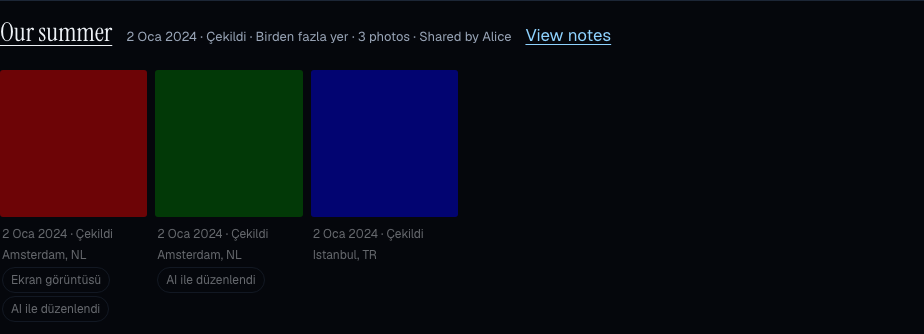
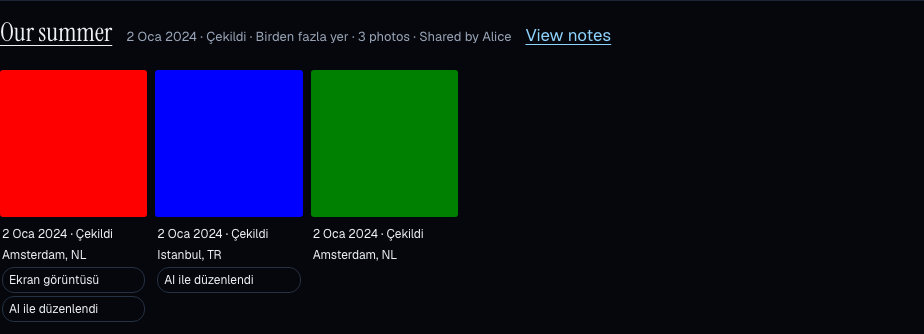
test(labels): capture settled badges and record pending budget gate

diff --git a/tests/clarity-workspaces.spec.ts b/tests/clarity-workspaces.spec.ts
@@ -434,6 +434,7 @@ test("photo label editing and atomic Gallery selection show honest badges at pho
       .getByLabel("AI kullanımı", { exact: true })
       .selectOption("edited");
     await editor.screenshot({
+      animations: "disabled",
       path: `${directory}/${info.project.name}-bulk-editor.png`,
     });
     expect(
@@ -449,6 +450,7 @@ test("photo label editing and atomic Gallery selection show honest badges at pho
     ).toHaveCount(2);
     expect((await read()).items[2]).toEqual(before.items[2]);
     await page.locator("#grid").screenshot({
+      animations: "disabled",
       path: `${directory}/${info.project.name}-gallery-badges.png`,
     });
     const requests: string[] = [];
@@ -466,6 +468,7 @@ test("photo label editing and atomic Gallery selection show honest badges at pho
       ),
     ).toEqual([]);
     await page.locator("#results").screenshot({
+      animations: "disabled",
       path: `${directory}/${info.project.name}-search-badges.png`,
     });
   } finally {

diff --git a/work/poteto/photo-labels-ui/VERIFICATION.md b/work/poteto/photo-labels-ui/VERIFICATION.md
@@ -25,7 +25,7 @@ After merging plans UI/main:
 - `node --test tests/dom/label-editor.test.mjs tests/dom/gallery-labels.test.mjs tests/dom/search-date-basis.test.mjs tests/dom/photo-evidence.test.mjs tests/dom/memories-mobile.test.mjs tests/dom/search-startup.test.mjs`: **19 passed**. Covers exact receipt retry, draft-preserving conflict, group/access disposal, the 50-photo cap, deferred metadata reads and initial Search isolation.
 - `MAZI_TEST_PORT=5294 MAZI_UNIFIED_PORT=8154 npx playwright test --config playwright.unified.config.ts -g 'photo label editing'`: **2 passed**, real synthetic desktop and 320 CSS-pixel phone. Single-child edits preserve siblings; two-photo atomic edits preserve the third photo. Gallery/Search badges agree; first Search makes no Atlas or People-management request. No horizontal overflow at 320 px. Cleanup restores prior declarations using current revisions.
 - `npm run build`, `npm run typecheck`, `npm run lint`, `npm run check:docs`: passed. Build carries the existing large-chunk advisory; no new library was added.
-- Combined plans + labels measured **401.8 KiB total scripts**, which honestly fails the existing **400 KiB** gate. Entry **149.1/150 KiB**, CSS **36.9/40 KiB**, Globe **242.9/256 KiB** remain within their limits. Root owns the separate measured budget decision; this feature does not change a ceiling.
+- Combined plans + labels measured **401.8 KiB total scripts**, which honestly fails the existing **400 KiB** gate. Entry **149.1/150 KiB**, CSS **36.9/40 KiB**, Globe **242.9/256 KiB** remain within their limits. Root owns the separate measured budget decision; this feature does not change a ceiling. D27 is prepared separately at budget branch `9bd1448` (400→420 total only) and is pending independent review; the current 400 gate failure is **1.8 KiB**.
 - `git diff --check` and `git diff --check 1f39e14...HEAD`: passed before final handoff.
 
 ## Visual evidence and limits
@@ -33,3 +33,5 @@ After merging plans UI/main:
 [Desktop editor](desktop-bulk-editor.png), [phone editor](phone-bulk-editor.png), [desktop Gallery](desktop-gallery-badges.png), [phone Gallery](phone-gallery-badges.png), [desktop Search](desktop-search-badges.png), [phone Search](phone-search-badges.png). The phone editor was visually inspected: labels and provenance links wrap, all controls fit, the affected count stays explicit and the AI declaration reads as a declaration.
 
 Hosted migration/ledger acceptance belongs to the already merged backend slice; no hosted suite was rerun for this schema-free UI/read projection. Physical-device and five-friend acceptance remain separate gates. Root owns independent review, final full-suite verification, integration budget approval and deployment.
+
+Final screenshot refresh disables finite animations so review evidence captures settled badge contrast. Both desktop and 320 px phone scenarios passed again after that evidence-only change. Shared approved-person visibility was then verified with 16 focused label tests; no predicate is duplicated between compact and full projections.
